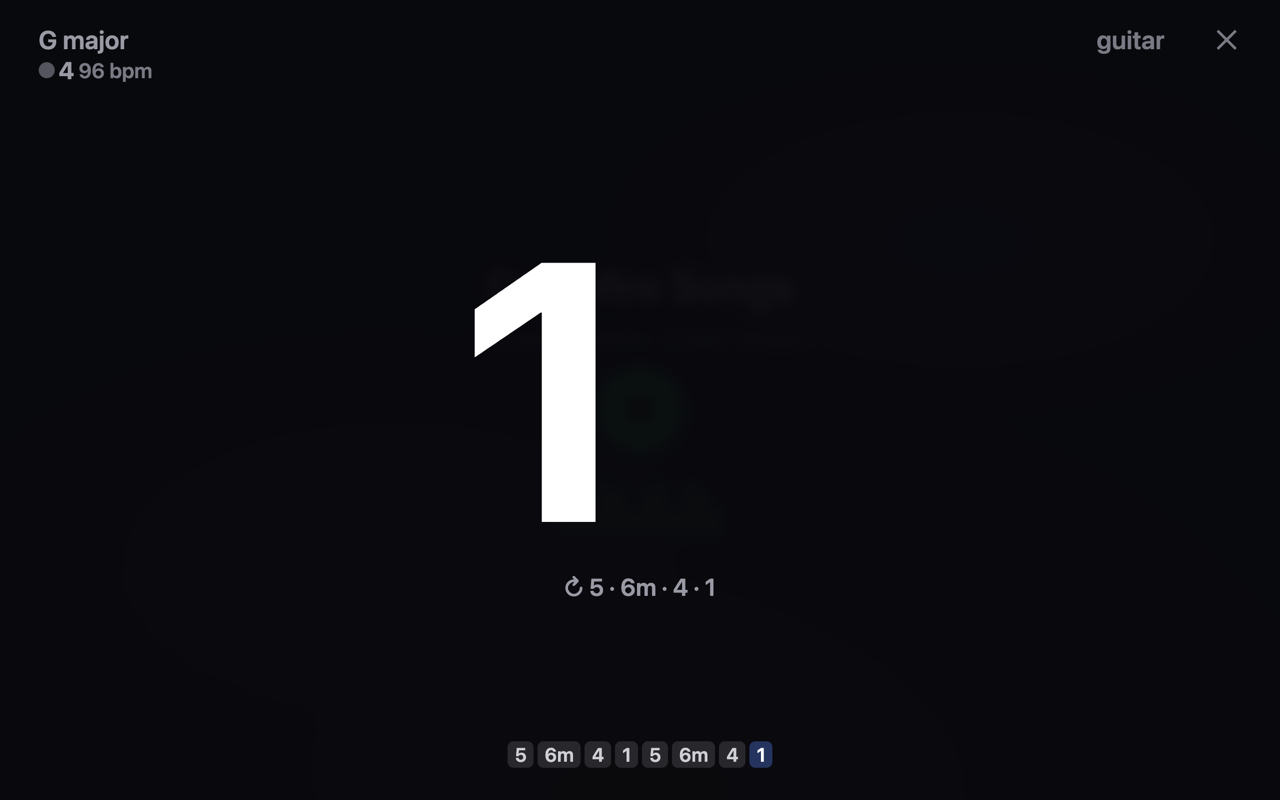
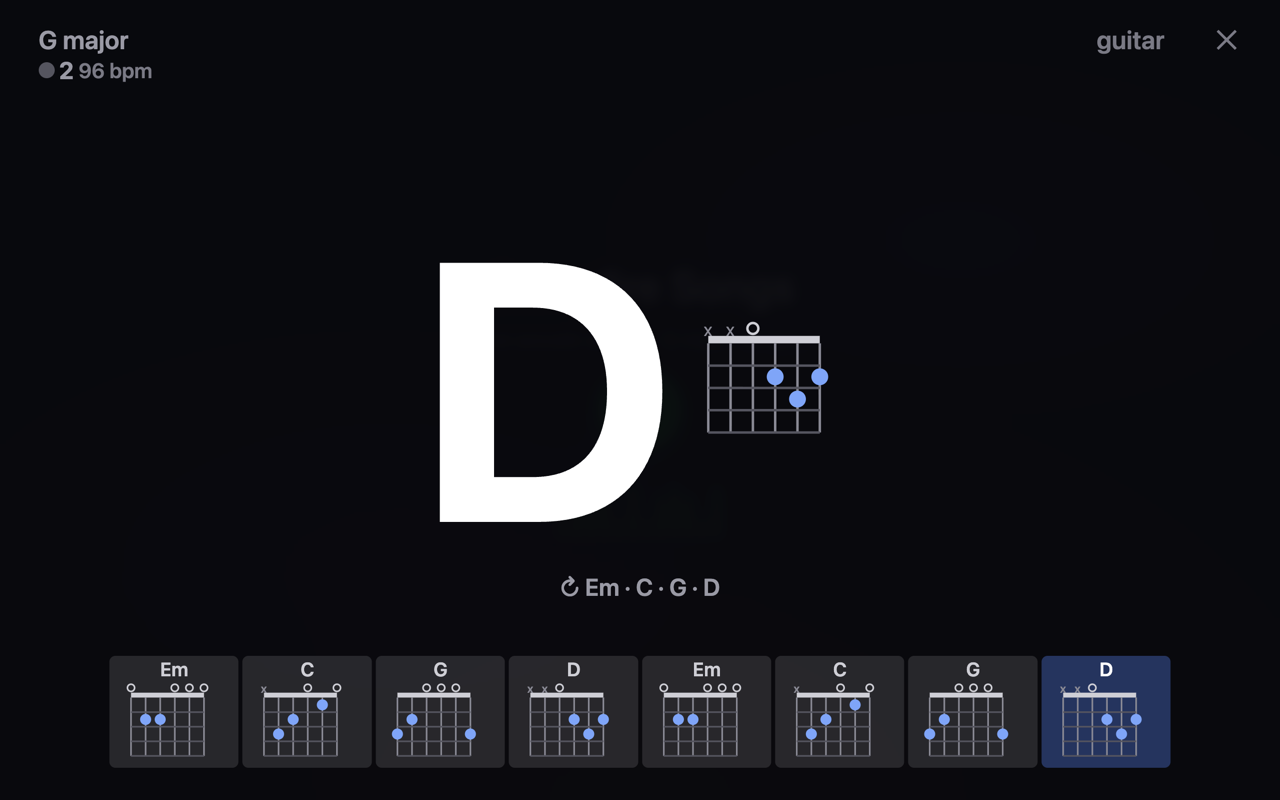
feat: no-AI positioning + fixed stage screenshot
Not-AI card, privacy band copy, brighter stage shot (chord letter,
diagram, full ribbon) replacing the near-black one.

diff --git a/index.html b/index.html
@@ -194,6 +194,14 @@
           Ultimate Guitar, SongSelect, or Google.</p>
       </div>
       <div class="card">
+        <span class="tag t-priv">NOT AI</span>
+        <h3>Just math, no AI</h3>
+        <p>Chartless is classic signal processing — the same physics your ear
+          uses, written in code. No AI models, no cloud, no training on your
+          listening, no guessing black box. Fast, predictable, and it works
+          the same on day one thousand as day one.</p>
+      </div>
+      <div class="card">
         <span class="tag t-priv">PRIVATE</span>
         <h3>100% local</h3>
         <p>All audio analysis runs inside your browser. Nothing is recorded,
@@ -234,11 +242,11 @@
 <section id="privacy">
   <div class="wrap">
     <div class="privacy-band">
-      <h3>Private by design</h3>
+      <h3>Private by design. No AI, on purpose.</h3>
       <p>Chartless captures tab audio <b>only while you press Start</b>, analyzes it
-        on your machine, and throws it away. No servers, no analytics, no data
-        collection of any kind. Read the full
-        <a href="privacy.html">privacy policy</a>.</p>
+        on your machine with <b>classic signal processing — not AI</b>, and throws
+        it away. No servers, no models, no analytics, no data collection of any
+        kind. Read the full <a href="privacy.html">privacy policy</a>.</p>
     </div>
   </div>
 </section>
